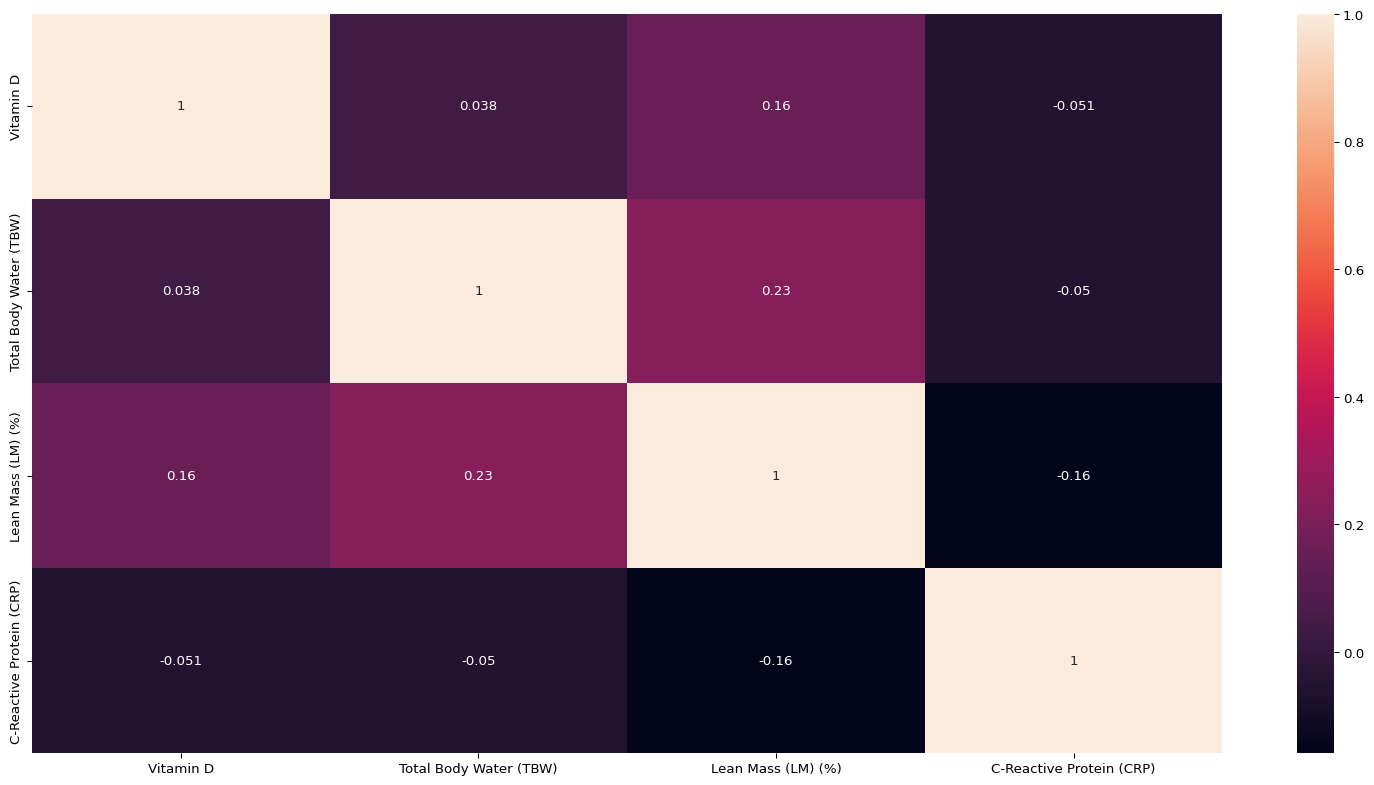
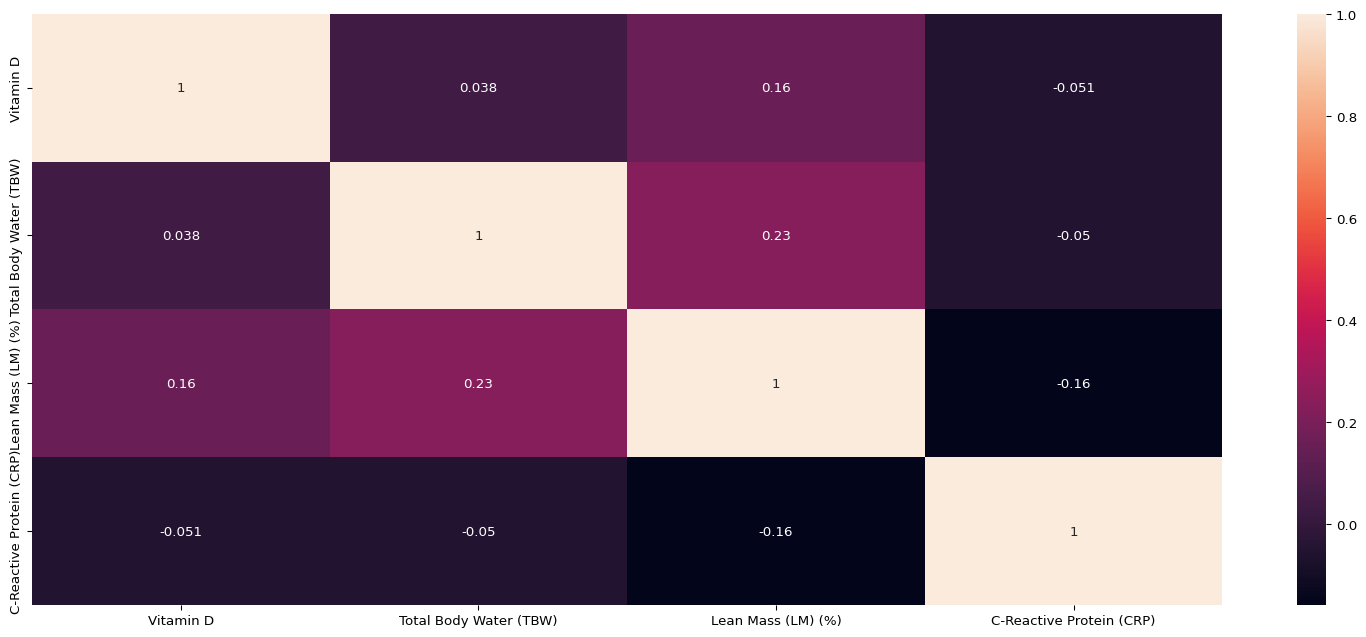
Updates

diff --git a/docs/portfolio.html b/docs/portfolio.html
@@ -194,7 +194,7 @@ window.Quarto = {
 <!-- margin-sidebar -->
     <div id="quarto-margin-sidebar" class="sidebar margin-sidebar">
         
-    <h5 class="quarto-listing-category-title">Categories</h5><div class="quarto-listing-category category-default"><div class="category" data-category="">All <span class="quarto-category-count">(14)</span></div><div class="category" data-category="Ug==">R <span class="quarto-category-count">(8)</span></div><div class="category" data-category="YW5hbHlzaXM=">analysis <span class="quarto-category-count">(13)</span></div><div class="category" data-category="aW50ZXJ2aWV3X3ByZXA=">interview_prep <span class="quarto-category-count">(1)</span></div><div class="category" data-category="cHl0aG9u">python <span class="quarto-category-count">(5)</span></div></div></div>
+    <h5 class="quarto-listing-category-title">Categories</h5><div class="quarto-listing-category category-default"><div class="category" data-category="">All <span class="quarto-category-count">(14)</span></div><div class="category" data-category="Ug==">R <span class="quarto-category-count">(9)</span></div><div class="category" data-category="YW5hbHlzaXM=">analysis <span class="quarto-category-count">(13)</span></div><div class="category" data-category="aW50ZXJ2aWV3X3ByZXA=">interview_prep <span class="quarto-category-count">(1)</span></div><div class="category" data-category="cHl0aG9u">python <span class="quarto-category-count">(5)</span></div></div></div>
 <!-- main -->
 <main class="content column-page-left" id="quarto-document-content">
 
@@ -224,7 +224,7 @@ window.Quarto = {
 
 <div class="quarto-listing quarto-listing-container-grid" id="listing-listing">
 <div class="list grid quarto-listing-cols-3">
-<div class="g-col-1" data-index="0" data-categories="YW5hbHlzaXMlMkNweXRob24=" data-listing-date-sort="1746594000000" data-listing-file-modified-sort="1754261761049" data-listing-date-modified-sort="NaN" data-listing-reading-time-sort="3" data-listing-word-count-sort="584">
+<div class="g-col-1" data-index="0" data-categories="YW5hbHlzaXMlMkNweXRob24lMkNS" data-listing-date-sort="1746594000000" data-listing-file-modified-sort="1754263940104" data-listing-date-modified-sort="NaN" data-listing-reading-time-sort="3" data-listing-word-count-sort="596">
 <a href="./portfolio/gallstone/index.html" class="quarto-grid-link">
 <div class="quarto-grid-item card h-100 card-left">
 <p class="card-img-top">
@@ -240,6 +240,9 @@ analysis
 </div>
 <div class="listing-category" onclick="window.quartoListingCategory('cHl0aG9u'); return false;">
 python
+</div>
+<div class="listing-category" onclick="window.quartoListingCategory('Ug=='); return false;">
+R
 </div>
 </div>
 <div class="card-text listing-description">

diff --git a/docs/portfolio/gallstone/index.html b/docs/portfolio/gallstone/index.html
@@ -179,6 +179,7 @@ gtag('config', 'G-LC5NNGZ782', { 'anonymize_ip': true});
                                 <div class="quarto-categories">
                 <div class="quarto-category">analysis</div>
                 <div class="quarto-category">python</div>
+                <div class="quarto-category">R</div>
               </div>
                   </div>
   </div>
@@ -237,7 +238,7 @@ gtag('config', 'G-LC5NNGZ782', { 'anonymize_ip': true});
 <span id="cb1-14"><a href="#cb1-14" aria-hidden="true" tabindex="-1"></a>df0<span class="op">=</span>pd.read_csv(path)</span>
 <span id="cb1-15"><a href="#cb1-15" aria-hidden="true" tabindex="-1"></a></span>
 <span id="cb1-16"><a href="#cb1-16" aria-hidden="true" tabindex="-1"></a>df0.head()</span></code><button title="Copy to Clipboard" class="code-copy-button"><i class="bi"></i></button></pre></div>
-<div id="load-packages" class="cell-output cell-output-display" data-execution_count="1">
+<div id="load-packages" class="cell-output cell-output-display" data-execution_count="11">
 <div>
 
 
@@ -429,7 +430,7 @@ gtag('config', 'G-LC5NNGZ782', { 'anonymize_ip': true});
 <p>The histogram of each of the variables do not show any problems as all the plots look decent. We will look at the correlation plot.</p>
 <div id="cell-EDA2" class="cell" data-execution_count="5">
 <div class="sourceCode cell-code" id="cb5"><pre class="sourceCode python code-with-copy"><code class="sourceCode python"><span id="cb5-1"><a href="#cb5-1" aria-hidden="true" tabindex="-1"></a><span class="co"># Correlation plot</span></span>
-<span id="cb5-2"><a href="#cb5-2" aria-hidden="true" tabindex="-1"></a>plt.figure(figsize<span class="op">=</span>(<span class="dv">20</span>,<span class="dv">10</span>))</span>
+<span id="cb5-2"><a href="#cb5-2" aria-hidden="true" tabindex="-1"></a>plt.figure(figsize<span class="op">=</span>(<span class="dv">20</span>,<span class="dv">8</span>))</span>
 <span id="cb5-3"><a href="#cb5-3" aria-hidden="true" tabindex="-1"></a>sns.heatmap(df.iloc[:,<span class="dv">1</span>:].corr(),annot<span class="op">=</span><span class="va">True</span>)</span>
 <span id="cb5-4"><a href="#cb5-4" aria-hidden="true" tabindex="-1"></a>plt.show()</span></code><button title="Copy to Clipboard" class="code-copy-button"><i class="bi"></i></button></pre></div>
 <div class="cell-output cell-output-display">
@@ -617,6 +618,9 @@ Classification Report:
 weighted avg       0.72      0.72      0.72        96
 </code></pre>
 </div>
+</div>
+<div style="text-align: justify">
+<p>The R code for the analysis can be found <a href="https://raw.githubusercontent.com/adityaranade/portfolio/refs/heads/main/gallstone/gallstone.R">here</a></p>
 </div>
 
 
